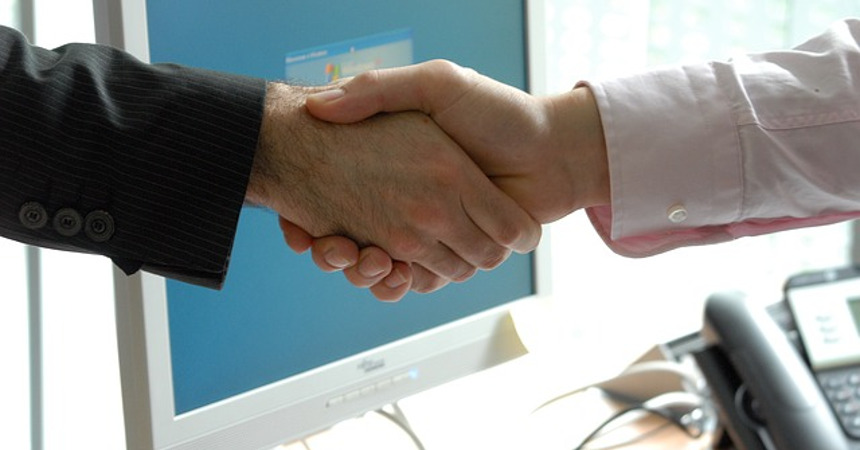
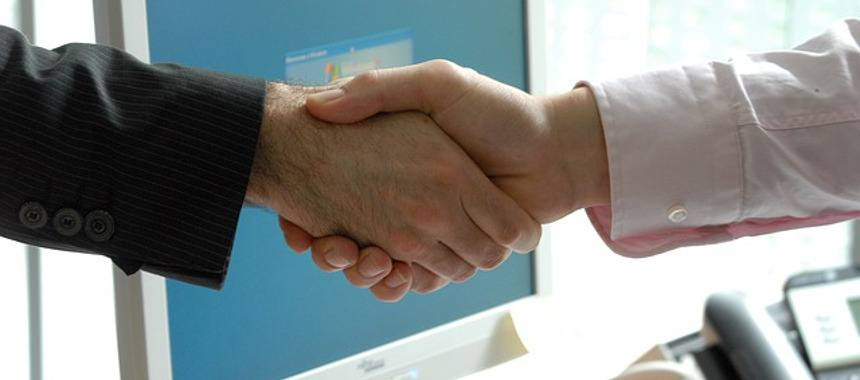
Add img for screen with 1920x1080+

diff --git a/style.css b/style.css
@@ -99,17 +99,21 @@ body {
     }
 
     /*Projekty*/
+    main section.about {
+      background-color: rgba(83, 112, 130, 1);
+    }
+
       main section.about .hello-img {
-        max-height: 50vh;
-        background-color: none;
         padding: 0;
+        display: none;
+        height: 100%;
       }
 
         section.about .hello-img img {
           width: 100%;
-          position: relative;
+          height: 380px;
           box-sizing: border-box;
-          z-index: -1;
+          filter: blur(0.5px) brightness(80%);
         }
 
       main section.about h1 {
@@ -117,7 +121,7 @@ body {
       }
 
       main section.about .hello-paragraphs {
-        background-color: rgba(83, 112, 130, 1);
+        overflow: hidden;
         padding: 20px 0;
       }
 
@@ -288,3 +292,12 @@ body {
     footer p {
       margin: 2px;
     }
+
+/*--------------------------------------------------------------
+MOBILE
+--------------------------------------------------------------*/
+@media all and (min-height: 900px){
+  main section.about .hello-img {
+    display: block;
+  }
+}
